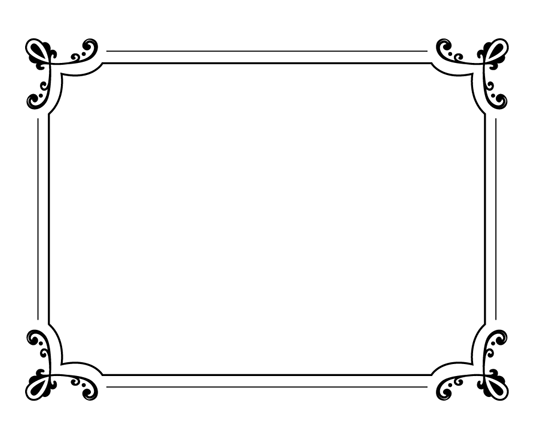
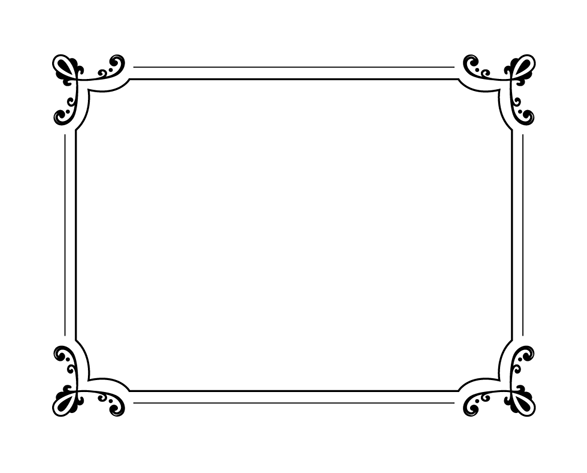
changed styling on About page

Changed region(s): [[0.03, 0.0903, 0.9588, 0.9329]]

diff --git a/frontend/Salon/src/pages/About.jsx b/frontend/Salon/src/pages/About.jsx
@@ -21,16 +21,18 @@ function About() {
       <h2 className='mainHeading'>Visit Us</h2>
       <div className="rowInitially">
         <div className='businessLeftCol'>
-          <iframe
-            className='googleMap'
-            src="https://www.google.com/maps/embed?pb=!1m18!1m12!1m3!1d965.0869285636699!2d121.0275595849788!3d14.636192890559546!2m3!1f0!2f0!3f0!3m2!1i1024!2i768!4f13.1!3m3!1m2!1s0x3397b75118d27c9b%3A0x3cc5206358c8dd87!2sMakeover%20Beauty%20Lounge!5e0!3m2!1sen!2sus!4v1728413393068!5m2!1sen!2sus"
-            width="400"
-            height="300"
-            style={{ border: 0 }}
-            allowFullScreen
-            loading="lazy"
-            referrerPolicy="no-referrer-when-downgrade"
-          />
+          <div className='iframeContainer'>
+            <iframe
+              className='googleMap'
+              src="https://www.google.com/maps/embed?pb=!1m18!1m12!1m3!1d965.0869285636699!2d121.0275595849788!3d14.636192890559546!2m3!1f0!2f0!3f0!3m2!1i1024!2i768!4f13.1!3m3!1m2!1s0x3397b75118d27c9b%3A0x3cc5206358c8dd87!2sMakeover%20Beauty%20Lounge!5e0!3m2!1sen!2sus!4v1728413393068!5m2!1sen!2sus"
+              width="400"
+              height="300"
+              style={{ border: 0 }}
+              allowFullScreen
+              loading="lazy"
+              referrerPolicy="no-referrer-when-downgrade"
+            />
+          </div>
         </div>
         <div className='businessCol'>
           <h2 className='typeHeading'>Business Hours</h2>

diff --git a/frontend/Salon/src/pages/About.css b/frontend/Salon/src/pages/About.css
@@ -58,7 +58,8 @@
     margin:15px
 }
 .googleMap{
-    border-radius: 20px;
+    border-radius: 35px;
+
 }
 .maroonbg{
     background-color: rgb(119, 43, 43);
@@ -68,6 +69,7 @@
     margin: 0 7px;
     transition: transform 0.2s;
     border-radius: 20px;
+    background-image: radial-gradient(#DBBFAF 10%, white);
 }
 .icon:hover{
    transform: scale(1.1)
@@ -123,6 +125,16 @@ strong{
     display:flex;
     color:black;
 }
+.iframeContainer{
+    display:flex;
+    width:auto;
+    height: auto;
+    padding: 50px;
+    background-image: url(/border2.png);
+    background-repeat: no-repeat;
+    background-size: contain;
+    background-position: center;
+}
 @media (max-width:1000px) {
     .row{
         flex-direction: column;
@@ -149,9 +161,16 @@ strong{
     }
     .businessCol{
         width:100%;
+        background-image: url(/border2.png);
+        
     }
     .businessLeftCol{
         width:100%;
+  
+    }
+    .iframeContainer{
+        padding:100px;
+        background-image: url(/border.png);
     }
 }
 
